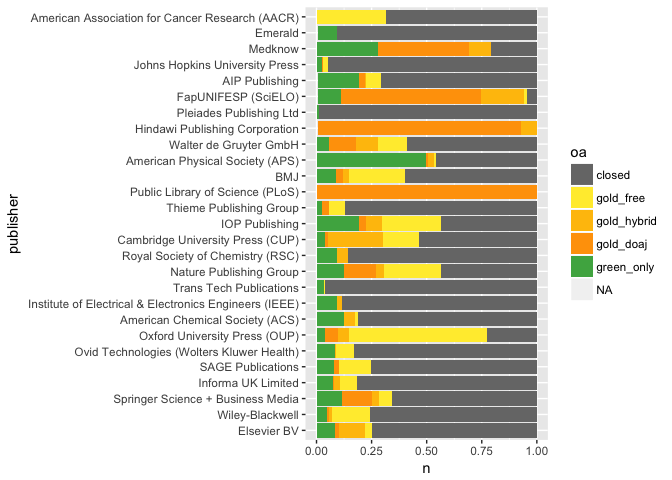
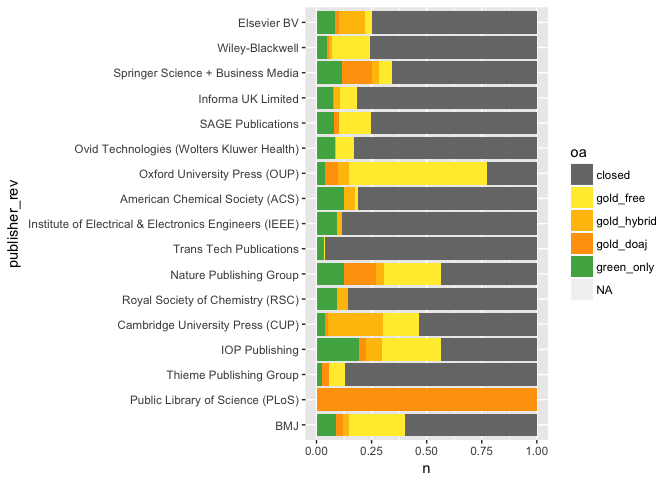
updates

Changed region(s): [[0.0, 0.0, 0.8125, 0.9375]]

diff --git a/oa_analysis.md b/oa_analysis.md
@@ -134,7 +134,7 @@ publishers_oa = articles_recent %>%
   ungroup()
 
 
-publishers_oa %>% slice(1:80) %>% ggplot(aes(x=publisher, y=n, fill=oa)) + 
+publishers_oa %>% slice(1:80) %>% mutate(publisher_rev=fct_rev(publisher)) %>% ggplot(aes(x=publisher_rev, y=n, fill=oa)) + 
   geom_bar(stat="identity") + 
   coord_flip() +
   oa_color_map
@@ -145,7 +145,7 @@ publishers_oa %>% slice(1:80) %>% ggplot(aes(x=publisher, y=n, fill=oa)) +
 ``` r
 #same thing but by % oa
 
-publishers_oa %>% slice(1:120) %>% ggplot(aes(x=publisher, y=n, fill=oa)) + 
+publishers_oa %>% slice(1:80) %>% mutate(publisher_rev=fct_rev(publisher)) %>% ggplot(aes(x=publisher_rev, y=n, fill=oa)) + 
   geom_bar(stat="identity", position="fill") + 
   coord_flip() +
   oa_color_map
@@ -157,28 +157,6 @@ From this we can see that Elsevier is massively outpublishing anyone else. Becau
 
 \# Repositories
 ===============
-
-Growth in literature over time with any green
----------------------------------------------
-
-We are only counting something as "green" if it's not available in any other format (Gold, hybrid). However, it's also interesting to look at how many articles are available in a repository, regardless of where else they might be open. Let's take a look at that below:
-
-``` r
-gray_green_color_map = scale_fill_manual(values=c("#777777", "#008000", "#FFD700"))
-
-articles_all %>% filter(is_modern) %>% ggplot(aes(x=year, fill=found_green)) + geom_bar(width=1) + gray_green_color_map
-```
-
-![](oa_analysis_files/figure-markdown_github/unnamed-chunk-8-1.png) As a proportion of all articles, deposits into repositories has been going up, with a recent drop. Embargos probaby play a large part in this, though deposit into places like ResearchGate (not included in our repository numbers) rather than institutional repositories may as well.
-
-``` r
-found_green_freq_by_year = articles_all %>% filter(is_modern) %>% count(year, found_green) %>%
-  mutate(perc = n / sum(n)) %>%
-  ungroup()
-found_green_freq_by_year %>% ggplot(aes(x=year, y=perc, fill=found_green)) + geom_area() + gray_green_color_map
-```
-
-![](oa_analysis_files/figure-markdown_github/unnamed-chunk-9-1.png)
 
 A different question is to dig into which repositories are contributing to making papers available. We know that PubMed Central and the ArXiv are both very popular repositories, so we will plot them seperately. We'll combine all other repositories, including the thousands of institutional repositories, into a single category for now. As a reminder, we are only looking here at articles that are *only* available from a green repository.
 
@@ -193,12 +171,15 @@ articles_all$repo[grepl('pmcid', articles_all$evidence)] = "PMC"
 articles_all$repo[grepl('pubmed', articles_all$base_collection_string)] = "PMC"
 articles_all$repo[grepl('arxiv', articles_all$base_collection_string)] = "arXiv"
 
-articles_all = mutate(articles_all, repo=fct_infreq(repo))
+repo_ordered_levels = c("PMC", "arXiv", "other")
+articles_all = mutate(articles_all, repo=factor(repo, levels=repo_ordered_levels))
 
-articles_all %>% filter(is_modern) %>% filter(!is.na(repo)) %>% ggplot(aes(x=year, fill=repo)) + geom_bar(width=1)
+repo_color_map = scale_fill_manual(values=c("purple", "blue", "dark blue"))
+
+articles_all %>% filter(is_modern) %>% filter(!is.na(repo)) %>% ggplot(aes(x=year, fill=repo)) + geom_bar(width=1) + repo_color_map
 ```
 
-![](oa_analysis_files/figure-markdown_github/unnamed-chunk-10-1.png)
+![](oa_analysis_files/figure-markdown_github/unnamed-chunk-8-1.png)
 
 Again, it apprears that multi-year embargoes maybe affecting PMC. Regardless of this, PMC remains by far the most significant green repository, and a very important source of fulltext that would be otherwise unavailable.
 
@@ -210,10 +191,32 @@ articles_all %>% filter(year > 2009, oa=="green_only") %>% count(repo) %>% mutat
     ##     repo     n proportion
     ##   <fctr> <int>      <dbl>
     ## 1    PMC   939   0.395535
-    ## 2  other  1061   0.446925
-    ## 3  arXiv   374   0.157540
+    ## 2  arXiv   374   0.157540
+    ## 3  other  1061   0.446925
 
 That said, smaller repositories are still making a significant contribution to Green OA, particularly in recent years. for articles published since 2009, the contribute about as much as PMC (42%).
+
+Growth in literature over time with any green
+---------------------------------------------
+
+We are only counting something as "green" if it's not available in any other format (Gold, hybrid). However, it's also interesting to look at how many articles are available in a repository, regardless of where else they might be open. Let's take a look at that below:
+
+``` r
+gray_green_color_map = scale_fill_manual(values=c("#777777", "#008000", "#FFD700"))
+
+articles_all %>% filter(is_modern) %>% ggplot(aes(x=year, fill=found_green)) + geom_bar(width=1) + gray_green_color_map
+```
+
+![](oa_analysis_files/figure-markdown_github/unnamed-chunk-10-1.png) As a proportion of all articles, deposits into repositories has been going up, with a recent drop. Embargos probaby play a large part in this, though deposit into places like ResearchGate (not included in our repository numbers) rather than institutional repositories may as well.
+
+``` r
+found_green_freq_by_year = articles_all %>% filter(is_modern) %>% count(year, found_green) %>%
+  mutate(perc = n / sum(n)) %>%
+  ungroup()
+found_green_freq_by_year %>% ggplot(aes(x=year, y=perc, fill=found_green)) + geom_area() + gray_green_color_map
+```
+
+![](oa_analysis_files/figure-markdown_github/unnamed-chunk-11-1.png)
 
 \# By license
 =============
@@ -229,10 +232,10 @@ articles_all %>% filter(is_modern) %>% filter(grepl('cc', license)) %>% ggplot(a
 Let's also look at CC licenses by type of OA
 
 ``` r
-articles_all %>% filter(is_modern) %>% filter(oa != "closed", oa != "free") %>% ggplot(aes(x=oa,  fill=license)) + geom_bar(width=1, position="fill") 
+# articles_all %>% filter(is_modern) %>% filter(oa != "closed", oa != "free") %>% ggplot(aes(x=oa,  fill=license)) + geom_bar(width=1, position="fill") 
 ```
 
-![](oa_analysis_files/figure-markdown_github/unnamed-chunk-13-1.png) Most repositories do not note the license of the work, so green\_only is surely an undercount. It's interesting to see that DOAJ journals are more likely to use the more permissive CC-BY license. This graph needs different colors, so that license=NA is shown as gray.
+Most repositories do not note the license of the work, so green\_only is surely an undercount. It's interesting to see that DOAJ journals are more likely to use the more permissive CC-BY license. This graph needs different colors, so that license=NA is shown as gray.
 
 \# By discipline
 ================
@@ -248,67 +251,36 @@ To write: - describe unpaywall - describe userbase of unpaywall - the number of 
 
 ``` r
 # articles accessed
-articles_accessed_raw <- read.csv("export_study_dois_unpaywall_accesses_20170506.csv")
-articles_accessed = articles_accessed_raw
-articles_accessed = articles_accessed %>%
-  mutate(is_open_license=(grepl("cc", license) | oa_color=="gold"))
-articles_accessed$oa = "closed"
-articles_accessed$oa[articles_accessed$oa_color=="green"] = "green_only"
-articles_accessed$oa[articles_accessed$oa_color=="gold"] = "gold_doaj"
-articles_accessed$oa[articles_accessed$oa_color=="blue" & articles_accessed$is_open_license] = "gold_not_doaj"
-articles_accessed$oa[articles_accessed$oa_color=="blue" & !articles_accessed$is_open_license] = "free"
-
-# sort the factor for easier plotting
-oa_color_map_accessed = scale_fill_manual(values=c("#777777", "#2196F3", "#FFC107", "#4CAF50", "#FFEB3B"))
-articles_accessed = mutate(articles_accessed, oa=fct_infreq(oa))
-
-# how much oa
-articles_accessed %>% count(oa) %>% mutate(proportion=n/sum(n))
+# articles_accessed_raw <- read.csv("export_study_dois_unpaywall_accesses_20170506.csv")
+# articles_accessed = articles_accessed_raw
+# articles_accessed = articles_accessed %>%
+#   mutate(is_open_license=(grepl("cc", license) | oa_color=="gold"))
+# articles_accessed$oa = "closed"
+# articles_accessed$oa[articles_accessed$oa_color=="green"] = "green_only"
+# articles_accessed$oa[articles_accessed$oa_color=="gold"] = "gold_doaj"
+# articles_accessed$oa[articles_accessed$oa_color=="blue" & articles_accessed$is_open_license] = "gold_not_doaj"
+# articles_accessed$oa[articles_accessed$oa_color=="blue" & !articles_accessed$is_open_license] = "free"
+# 
+# # sort the factor for easier plotting
+# oa_color_map_accessed = scale_fill_manual(values=c("#777777", "#2196F3", "#FFC107", "#4CAF50", "#FFEB3B"))
+# articles_accessed = mutate(articles_accessed, oa=fct_infreq(oa))
+# 
+# # how much oa
+# articles_accessed %>% count(oa) %>% mutate(proportion=n/sum(n))
+# articles_accessed %>% ggplot(aes(x="", fill=oa)) + geom_bar() + oa_color_map_accessed
+# 
+# articles_accessed = articles_accessed %>% mutate(is_modern = year >= 1990 & year <= 2015)
+# articles_accessed %>% count(is_modern) %>% mutate(proportion = n / sum(n))
+# 
+# articles_accessed %>% filter(is_modern) %>%
+#     ggplot(aes(x=year, fill=oa)) + geom_bar(width=1) + oa_color_map_accessed
+# 
+# oa_freq_by_year = articles_accessed %>% filter(is_modern) %>% count(year, oa) %>%  
+#   mutate(perc = n / sum(n)) %>%  
+#   ungroup()  
+# 
+# oa_freq_by_year %>% ggplot(aes(x=year, y=perc, fill=oa)) + geom_area() + oa_color_map_accessed
 ```
-
-    ## # A tibble: 5 × 3
-    ##              oa     n proportion
-    ##          <fctr> <int>      <dbl>
-    ## 1        closed 17199 0.55752212
-    ## 2          free  4207 0.13637395
-    ## 3     gold_doaj  4108 0.13316477
-    ## 4    green_only  3430 0.11118675
-    ## 5 gold_not_doaj  1905 0.06175241
-
-``` r
-articles_accessed %>% ggplot(aes(x="", fill=oa)) + geom_bar() + oa_color_map_accessed
-```
-
-![](oa_analysis_files/figure-markdown_github/unnamed-chunk-14-1.png)
-
-``` r
-articles_accessed = articles_accessed %>% mutate(is_modern = year >= 1990 & year <= 2015)
-articles_accessed %>% count(is_modern) %>% mutate(proportion = n / sum(n))
-```
-
-    ## # A tibble: 3 × 3
-    ##   is_modern     n proportion
-    ##       <lgl> <int>      <dbl>
-    ## 1     FALSE 13326 0.43197510
-    ## 2      TRUE 17209 0.55784628
-    ## 3        NA   314 0.01017861
-
-``` r
-articles_accessed %>% filter(is_modern) %>%
-    ggplot(aes(x=year, fill=oa)) + geom_bar(width=1) + oa_color_map_accessed
-```
-
-![](oa_analysis_files/figure-markdown_github/unnamed-chunk-14-2.png)
-
-``` r
-oa_freq_by_year = articles_accessed %>% filter(is_modern) %>% count(year, oa) %>%  
-  mutate(perc = n / sum(n)) %>%  
-  ungroup()  
-
-oa_freq_by_year %>% ggplot(aes(x=year, y=perc, fill=oa)) + geom_area() + oa_color_map_accessed
-```
-
-![](oa_analysis_files/figure-markdown_github/unnamed-chunk-14-3.png)
 
 \# OA and citation patterns
 ===========================
